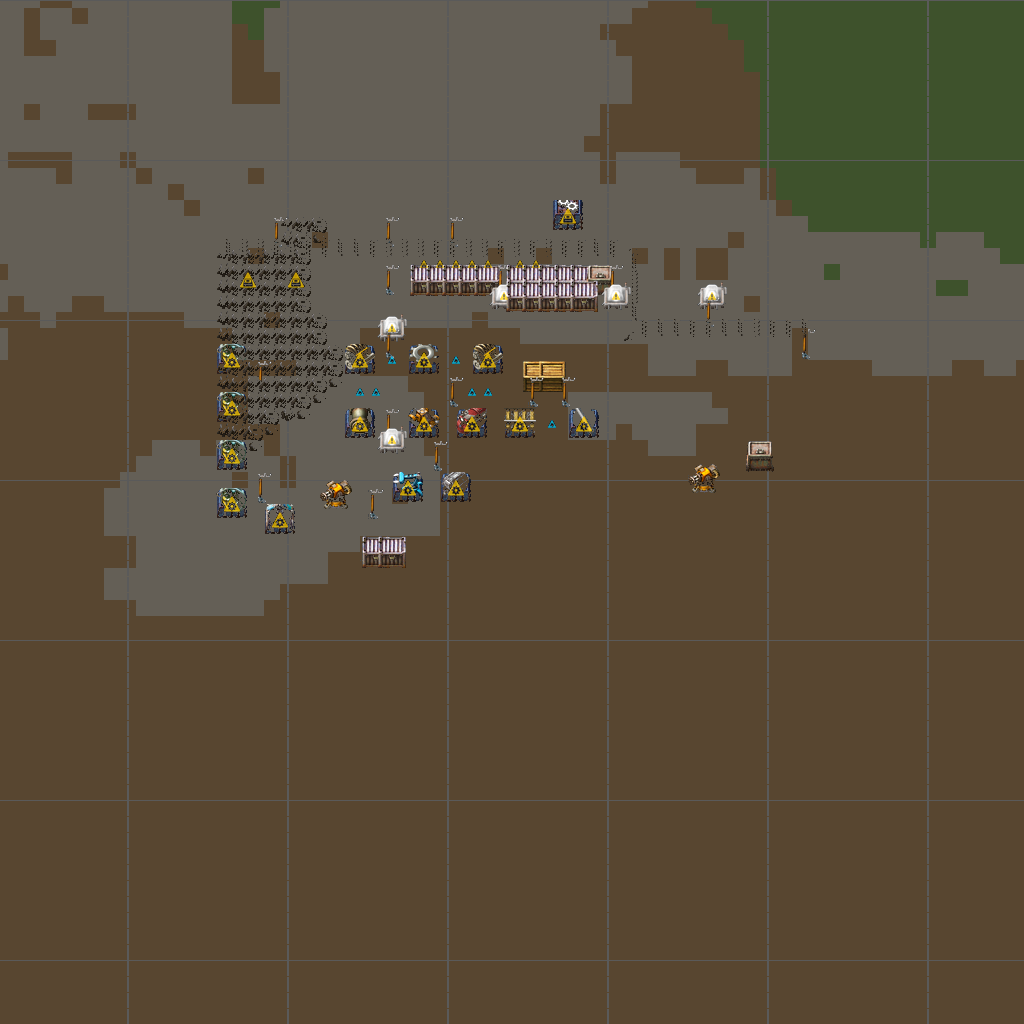
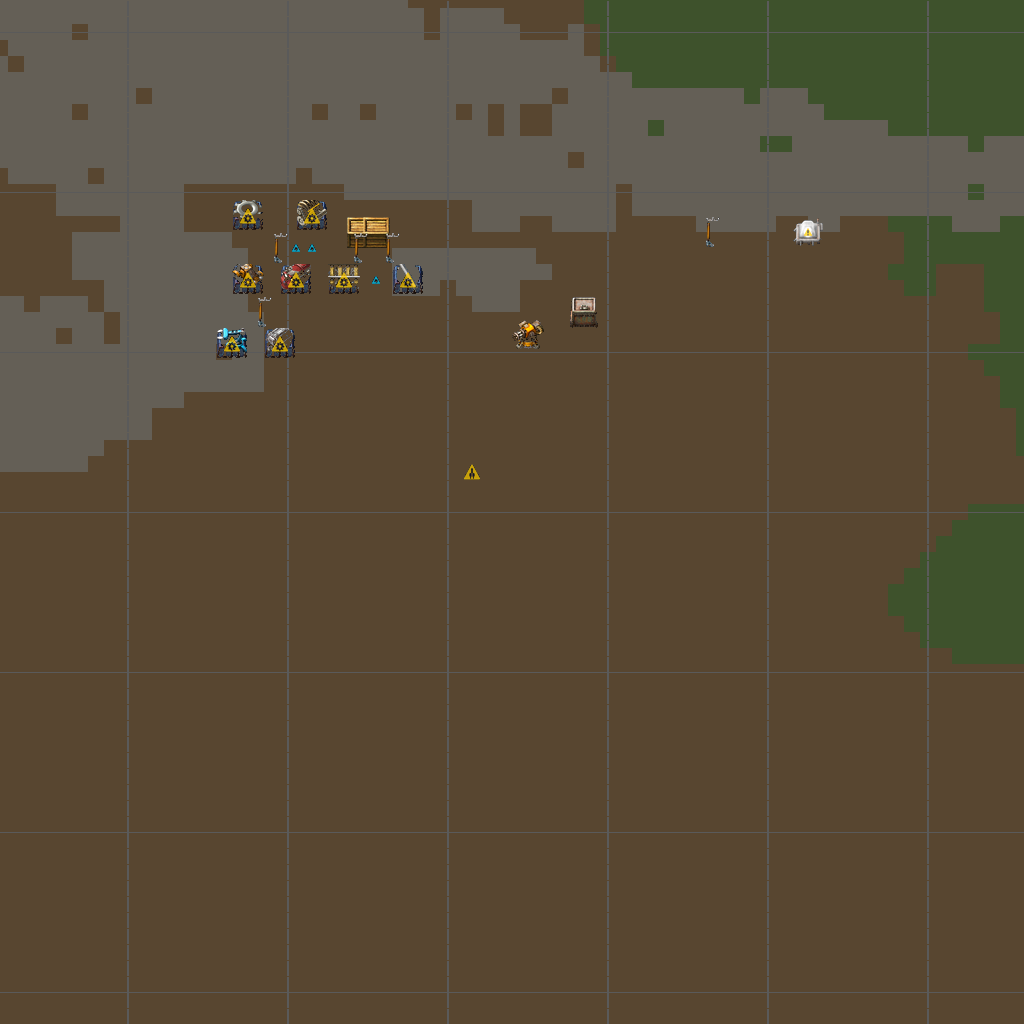
Landing: map is the hero wallpaper, pinned hero with sheet sliding over, sticky section headings
Claude-Session: https://claude.ai/code/session_01NEpUbo3oruyF74nJh2ApNj

Changed region(s): [[0.0, 0.0, 1.0, 0.625], [0.8438, 0.4688, 1.0, 0.6562], [0.2188, 0.0, 0.375, 0.125]]

diff --git a/web/index.html b/web/index.html
@@ -24,36 +24,35 @@
   h1, h2, h3 { text-wrap: balance; }
   code { font-family: var(--font-code, ui-monospace, "SF Mono", Menlo, monospace); font-size: .9em; background: var(--color-code-bg, #ebe4d3); padding: .1em .35em; border-radius: 4px; }
   .sheet-rule { display: flex; align-items: center; gap: 16px; padding: 14px 20px 0; font-size: 13px; letter-spacing: .08em; font-variant: var(--caption, small-caps); font-weight: 500; color: var(--text2, rgba(31,27,22,.6)); }
-  .sheet-rule::before { content: ""; order: 1; flex: 1; height: 1px; background: var(--border, #dcd2bd); }
+  .sheet-rule { position: absolute; top: 0; left: 0; right: 0; z-index: 5; color: rgba(255,255,255,.8); text-shadow: 0 1px 8px rgba(0,0,0,.5); }
+  .sheet-rule::before { content: ""; order: 1; flex: 1; height: 1px; background: rgba(255,255,255,.3); }
   .sheet-rule > :first-child { order: 0; } .sheet-rule > :last-child { order: 2; }
   .sheet-rule a { text-decoration: none; display: inline-block; padding: 12px 6px; margin: -12px -6px; } .sheet-rule a:hover { text-decoration: underline; }
-  .hero { text-align: center; padding: 88px 20px 48px; display: flex; flex-direction: column; align-items: center; }
-  .mark { width: 92px; height: 92px; border-radius: 22px; }
-  .hero h1 { font-size: clamp(2.6rem, 8vw, 5rem); line-height: 1.02; letter-spacing: -.035em; font-weight: 700; margin-top: 18px; }
-  .eyebrow { margin-top: 14px; font-size: 14px; font-variant: var(--caption, small-caps); letter-spacing: .08em; font-weight: 600; }
-  .lede { font-size: 1.2rem; color: var(--text2, rgba(31,27,22,.6)); max-width: 30ch; margin: 18px auto 0; }
+  /* hero: the map is the wallpaper, pinned; the page slides over it */
+  .hero { position: sticky; top: 0; z-index: 0; min-height: 100vh; min-height: 100svh; display: flex; flex-direction: column; align-items: center; justify-content: center; text-align: center; padding: 72px 20px 56px; color: #fff;
+          background: radial-gradient(ellipse 70% 55% at 50% 40%, rgba(16,12,8,.68), rgba(16,12,8,.28) 70%, rgba(16,12,8,.1)), linear-gradient(180deg, rgba(16,12,8,.35), rgba(16,12,8,.15) 60%, rgba(16,12,8,.55)), url(base.png) 40% 22% / cover no-repeat #3a2f23; }
+  .hero > * { position: relative; }
+  .mark { width: 92px; height: 92px; border-radius: 22px; box-shadow: 0 8px 30px rgba(0,0,0,.4); }
+  .hero h1 { font-size: clamp(2.6rem, 8vw, 5rem); line-height: 1.02; letter-spacing: -.035em; font-weight: 700; margin-top: 18px; text-shadow: 0 2px 24px rgba(0,0,0,.45); }
+  .eyebrow { margin-top: 14px; font-size: 14px; font-variant: var(--caption, small-caps); letter-spacing: .08em; font-weight: 600; opacity: .92; }
+  .lede { font-size: 1.2rem; color: rgba(255,255,255,.82); max-width: 30ch; margin: 18px auto 0; text-shadow: 0 1px 14px rgba(0,0,0,.5); }
   .cta { margin-top: 28px; display: flex; gap: 12px; flex-wrap: wrap; justify-content: center; }
-  .btn { display: inline-block; padding: 10px 18px; border-radius: var(--radius-pill, 999px); border: 1px solid var(--text, #1f1b16); text-decoration: none; font-size: .95rem; font-weight: 500; }
-  .btn.solid { background: var(--text, #1f1b16); color: var(--bg, #f5f0e4); } .btn:hover { opacity: .85; }
-  .stage { max-width: 1040px; margin: 0 auto; padding: 0 16px; }
-  .win { border: 1px solid var(--border2, #ebe4d3); border-radius: var(--radius-lg, 18px); background: var(--bg2, #ebe4d3); overflow: hidden; box-shadow: var(--shadow-lg, 0 12px 36px rgba(60,40,20,.12)); }
-  .bar { display: flex; align-items: center; gap: 6px; padding: 10px 14px; border-bottom: 1px solid var(--border, #dcd2bd); font-size: .8rem; color: var(--text2, rgba(31,27,22,.6)); }
-  .bar i { width: 11px; height: 11px; border-radius: 50%; background: var(--border, #dcd2bd); } .bar span { margin-left: 10px; }
-  .panes { display: grid; grid-template-columns: minmax(0, 1.25fr) minmax(0, 1fr); }
-  .map img { display: block; width: 100%; height: 100%; object-fit: cover; object-position: 50% 12%; aspect-ratio: 1.15; }
-  .live { padding: 22px 22px 24px; border-left: 1px solid var(--border, #dcd2bd); display: flex; flex-direction: column; gap: 6px; }
-  .live small { font-size: .8rem; font-variant: var(--caption, small-caps); letter-spacing: .06em; color: var(--text2, rgba(31,27,22,.6)); font-weight: 600; }
-  .live b.big { font-size: 1.5rem; letter-spacing: -.02em; line-height: 1.15; }
-  .meter { height: 8px; border-radius: 99px; background: var(--border, #dcd2bd); overflow: hidden; margin: 6px 0 2px; }
-  .meter i { display: block; height: 100%; width: 0%; background: var(--accent, #b3461f); border-radius: 99px; }
-  .live p { font-size: .9rem; color: var(--text2, rgba(31,27,22,.6)); }
-  .live ol { margin: 4px 0 0 1.1rem; font-size: .9rem; } .live li { margin-top: 4px; } .live li span { color: var(--text2, rgba(31,27,22,.6)); }
-  .plate-cap { margin: 14px 0 0; text-align: center; font-size: 13px; letter-spacing: .08em; font-variant: var(--caption, small-caps); font-weight: 500; color: var(--text2, rgba(31,27,22,.6)); }
+  .btn { display: inline-block; padding: 10px 18px; border-radius: var(--radius-pill, 999px); border: 1px solid rgba(255,255,255,.55); color: #fff; text-decoration: none; font-size: .95rem; font-weight: 500; }
+  .btn.solid { background: #fff; color: #1f1b16; border-color: #fff; } .btn:hover { opacity: .85; }
+  .glass { margin-top: 40px; width: min(440px, 100%); text-align: left; padding: 18px 20px 20px; border-radius: 18px; background: rgba(245,240,228,.13); border: 1px solid rgba(255,255,255,.22); backdrop-filter: blur(16px) saturate(1.2); -webkit-backdrop-filter: blur(16px) saturate(1.2); }
+  .glass small { font-size: .78rem; font-variant: var(--caption, small-caps); letter-spacing: .08em; font-weight: 600; opacity: .8; }
+  .glass b.big { display: block; font-size: 1.4rem; letter-spacing: -.02em; line-height: 1.2; margin-top: 2px; }
+  .meter { height: 7px; border-radius: 99px; background: rgba(255,255,255,.22); overflow: hidden; margin: 10px 0 6px; }
+  .meter i { display: block; height: 100%; width: 0%; background: var(--bulb, #ffca30); border-radius: 99px; }
+  .glass p { font-size: .88rem; color: rgba(255,255,255,.78); }
+  .glass ol { margin: 8px 0 0 1.1rem; font-size: .88rem; color: rgba(255,255,255,.9); } .glass li { margin-top: 3px; }
+  .plate-cap { margin: 18px 0 0; font-size: 12px; letter-spacing: .08em; font-variant: var(--caption, small-caps); font-weight: 500; color: rgba(255,255,255,.62); }
+  .sheet { position: relative; z-index: 1; background: var(--bg, #f5f0e4); border-radius: 28px 28px 0 0; box-shadow: 0 -18px 50px rgba(0,0,0,.28); padding-top: 8px; }
   .wrap { max-width: 640px; margin: 0 auto; padding: 0 20px; }
   .facts { display: grid; grid-template-columns: repeat(4, 1fr); gap: 12px; max-width: 760px; margin: 72px auto 0; padding: 0 20px; }
   .fact { border: 1px solid var(--border, #dcd2bd); border-radius: var(--radius, 12px); padding: 16px 14px; background: var(--bg2, #ebe4d3); text-align: center; }
   .fact b { display: block; font-size: 1.6rem; letter-spacing: -.03em; line-height: 1.1; } .fact span { font-size: .8rem; color: var(--text2, rgba(31,27,22,.6)); }
-  section.copy { padding-top: 72px; } section.copy h2 { font-size: 1.7rem; letter-spacing: -.025em; margin-bottom: 14px; }
+  section.copy { padding-top: 56px; } section.copy h2 { position: sticky; top: 0; z-index: 3; background: var(--bg, #f5f0e4); padding: 14px 0 10px; font-size: 1.7rem; letter-spacing: -.025em; margin-bottom: 8px; }
   .steps { display: grid; grid-template-columns: repeat(4, 1fr); gap: 12px; margin-top: 8px; }
   .step { border-top: 2px solid var(--accent, #b3461f); padding-top: 10px; } .step b { display: block; font-size: .95rem; } .step span { font-size: .85rem; color: var(--text2, rgba(31,27,22,.6)); }
   .cols { display: grid; grid-template-columns: 1fr 1fr; gap: 12px; margin-top: 8px; }
@@ -71,42 +70,33 @@
   .js .reveal { opacity: 0; transform: translateY(14px); transition: opacity .6s ease, transform .6s ease; } .js .reveal.in { opacity: 1; transform: none; }
   @media (max-width: 720px) {
     .hero { padding: 48px 16px 32px; } .hero h1 { font-size: clamp(2.4rem, 12vw, 3.2rem); } .lede { font-size: 1.05rem; } .mark { width: 72px; height: 72px; }
-    .btn { padding: 13px 20px; min-height: 44px; } .stage { padding: 0 12px; } .wrap { padding: 0 16px; }
-    .panes { grid-template-columns: minmax(0, 1fr); } .live { border-left: 0; border-top: 1px solid var(--border, #dcd2bd); }
+    .btn { padding: 13px 20px; min-height: 44px; } .hero { background-position: 30% 22%; } .wrap { padding: 0 16px; }
     .facts, .steps { grid-template-columns: repeat(2, minmax(0, 1fr)); } .cols { grid-template-columns: minmax(0, 1fr); } .foot-dir { grid-template-columns: repeat(2, 1fr); }
   }
-  @media (prefers-reduced-motion: reduce) { .js .reveal { opacity: 1; transform: none; transition: none; } }
+  @media (prefers-reduced-motion: reduce) { .hero { position: relative; } .js .reveal { opacity: 1; transform: none; transition: none; } }
 </style>
 </head>
 <body id="top">
 <div class="sheet-rule" aria-hidden="true"><span>Conveyer</span><span><a href="https://github.com/nulljosh/conveyer" tabindex="-1">GitHub</a></span></div>
-<main>
 <header class="hero">
   <img class="mark" src="icon.svg" alt="">
   <h1>Introducing<br>Conveyer.</h1>
   <p class="eyebrow">An LLM plays Factorio.</p>
   <p class="lede">On a real save. It reads the game, picks one move, and repeats.</p>
   <div class="cta"><a class="btn solid" href="https://github.com/nulljosh/conveyer">View on GitHub</a><a class="btn" href="#run">Run it</a></div>
+  <div class="glass">
+    <small>Researching now</small>
+    <b class="big">Advanced oil processing</b>
+    <div class="meter" role="img" aria-label="0 percent"><i></i></div>
+    <p>0% &middot; Labs idle, waiting for science packs</p>
+    <small style="display:block;margin-top:12px">Next</small>
+    <ol><li>Automated green science</li><li>Oil chain running</li><li>Advanced oil processing researched</li></ol>
+  </div>
+  <p class="plate-cap">The wallpaper is the real base, drawn from game state, 2 Oct 2026</p>
 </header>
 
-<div class="stage">
-  <div class="win">
-    <div class="bar"><i></i><i></i><i></i><span>The base, live from the game</span></div>
-    <div class="panes">
-      <div class="map"><img src="base.png" width="1024" height="1024" alt="Top-down map of the real Factorio base, drawn from game state"></div>
-      <div class="live">
-        <small>Researching</small>
-        <b class="big">Advanced oil processing</b>
-        <div class="meter" role="img" aria-label="0 percent"><i></i></div>
-        <p>0% &middot; Labs idle, waiting for science packs</p>
-        <small style="margin-top:14px">Next</small>
-        <ol><li>Automated green science</li><li>Oil chain running</li><li>Advanced oil processing researched</li></ol>
-      </div>
-    </div>
-  </div>
-  <p class="plate-cap">Drawn from game state, 2 Oct 2026</p>
-</div>
-
+<div class="sheet">
+<main>
 <div class="facts reveal">
   <div class="fact"><b>43</b><span>techs researched</span></div>
   <div class="fact"><b>2,320</b><span>things on the base</span></div>
@@ -167,6 +157,7 @@ python3 runner.py --env-id open_play
   </nav>
   <div class="foot-bar">Conveyer &middot; MIT License &middot; &copy; 2026 Joshua Trommel &middot; Unaffiliated with Wube Software</div>
 </footer>
+</div>
 <script>
 (function () {
   var els = document.querySelectorAll(".reveal");

diff --git a/scripts/landing_sync.py b/scripts/landing_sync.py
@@ -70,36 +70,35 @@ PAGE = """<!doctype html>
   h1, h2, h3 { text-wrap: balance; }
   code { font-family: var(--font-code, ui-monospace, "SF Mono", Menlo, monospace); font-size: .9em; background: var(--color-code-bg, #ebe4d3); padding: .1em .35em; border-radius: 4px; }
   .sheet-rule { display: flex; align-items: center; gap: 16px; padding: 14px 20px 0; font-size: 13px; letter-spacing: .08em; font-variant: var(--caption, small-caps); font-weight: 500; color: var(--text2, rgba(31,27,22,.6)); }
-  .sheet-rule::before { content: ""; order: 1; flex: 1; height: 1px; background: var(--border, #dcd2bd); }
+  .sheet-rule { position: absolute; top: 0; left: 0; right: 0; z-index: 5; color: rgba(255,255,255,.8); text-shadow: 0 1px 8px rgba(0,0,0,.5); }
+  .sheet-rule::before { content: ""; order: 1; flex: 1; height: 1px; background: rgba(255,255,255,.3); }
   .sheet-rule > :first-child { order: 0; } .sheet-rule > :last-child { order: 2; }
   .sheet-rule a { text-decoration: none; display: inline-block; padding: 12px 6px; margin: -12px -6px; } .sheet-rule a:hover { text-decoration: underline; }
-  .hero { text-align: center; padding: 88px 20px 48px; display: flex; flex-direction: column; align-items: center; }
-  .mark { width: 92px; height: 92px; border-radius: 22px; }
-  .hero h1 { font-size: clamp(2.6rem, 8vw, 5rem); line-height: 1.02; letter-spacing: -.035em; font-weight: 700; margin-top: 18px; }
-  .eyebrow { margin-top: 14px; font-size: 14px; font-variant: var(--caption, small-caps); letter-spacing: .08em; font-weight: 600; }
-  .lede { font-size: 1.2rem; color: var(--text2, rgba(31,27,22,.6)); max-width: 30ch; margin: 18px auto 0; }
+  /* hero: the map is the wallpaper, pinned; the page slides over it */
+  .hero { position: sticky; top: 0; z-index: 0; min-height: 100vh; min-height: 100svh; display: flex; flex-direction: column; align-items: center; justify-content: center; text-align: center; padding: 72px 20px 56px; color: #fff;
+          background: radial-gradient(ellipse 70% 55% at 50% 40%, rgba(16,12,8,.68), rgba(16,12,8,.28) 70%, rgba(16,12,8,.1)), linear-gradient(180deg, rgba(16,12,8,.35), rgba(16,12,8,.15) 60%, rgba(16,12,8,.55)), url(base.png) 40% 22% / cover no-repeat #3a2f23; }
+  .hero > * { position: relative; }
+  .mark { width: 92px; height: 92px; border-radius: 22px; box-shadow: 0 8px 30px rgba(0,0,0,.4); }
+  .hero h1 { font-size: clamp(2.6rem, 8vw, 5rem); line-height: 1.02; letter-spacing: -.035em; font-weight: 700; margin-top: 18px; text-shadow: 0 2px 24px rgba(0,0,0,.45); }
+  .eyebrow { margin-top: 14px; font-size: 14px; font-variant: var(--caption, small-caps); letter-spacing: .08em; font-weight: 600; opacity: .92; }
+  .lede { font-size: 1.2rem; color: rgba(255,255,255,.82); max-width: 30ch; margin: 18px auto 0; text-shadow: 0 1px 14px rgba(0,0,0,.5); }
   .cta { margin-top: 28px; display: flex; gap: 12px; flex-wrap: wrap; justify-content: center; }
-  .btn { display: inline-block; padding: 10px 18px; border-radius: var(--radius-pill, 999px); border: 1px solid var(--text, #1f1b16); text-decoration: none; font-size: .95rem; font-weight: 500; }
-  .btn.solid { background: var(--text, #1f1b16); color: var(--bg, #f5f0e4); } .btn:hover { opacity: .85; }
-  .stage { max-width: 1040px; margin: 0 auto; padding: 0 16px; }
-  .win { border: 1px solid var(--border2, #ebe4d3); border-radius: var(--radius-lg, 18px); background: var(--bg2, #ebe4d3); overflow: hidden; box-shadow: var(--shadow-lg, 0 12px 36px rgba(60,40,20,.12)); }
-  .bar { display: flex; align-items: center; gap: 6px; padding: 10px 14px; border-bottom: 1px solid var(--border, #dcd2bd); font-size: .8rem; color: var(--text2, rgba(31,27,22,.6)); }
-  .bar i { width: 11px; height: 11px; border-radius: 50%; background: var(--border, #dcd2bd); } .bar span { margin-left: 10px; }
-  .panes { display: grid; grid-template-columns: minmax(0, 1.25fr) minmax(0, 1fr); }
-  .map img { display: block; width: 100%; height: 100%; object-fit: cover; object-position: 50% 12%; aspect-ratio: 1.15; }
-  .live { padding: 22px 22px 24px; border-left: 1px solid var(--border, #dcd2bd); display: flex; flex-direction: column; gap: 6px; }
-  .live small { font-size: .8rem; font-variant: var(--caption, small-caps); letter-spacing: .06em; color: var(--text2, rgba(31,27,22,.6)); font-weight: 600; }
-  .live b.big { font-size: 1.5rem; letter-spacing: -.02em; line-height: 1.15; }
-  .meter { height: 8px; border-radius: 99px; background: var(--border, #dcd2bd); overflow: hidden; margin: 6px 0 2px; }
-  .meter i { display: block; height: 100%; width: __PCT__%; background: var(--accent, #b3461f); border-radius: 99px; }
-  .live p { font-size: .9rem; color: var(--text2, rgba(31,27,22,.6)); }
-  .live ol { margin: 4px 0 0 1.1rem; font-size: .9rem; } .live li { margin-top: 4px; } .live li span { color: var(--text2, rgba(31,27,22,.6)); }
-  .plate-cap { margin: 14px 0 0; text-align: center; font-size: 13px; letter-spacing: .08em; font-variant: var(--caption, small-caps); font-weight: 500; color: var(--text2, rgba(31,27,22,.6)); }
+  .btn { display: inline-block; padding: 10px 18px; border-radius: var(--radius-pill, 999px); border: 1px solid rgba(255,255,255,.55); color: #fff; text-decoration: none; font-size: .95rem; font-weight: 500; }
+  .btn.solid { background: #fff; color: #1f1b16; border-color: #fff; } .btn:hover { opacity: .85; }
+  .glass { margin-top: 40px; width: min(440px, 100%); text-align: left; padding: 18px 20px 20px; border-radius: 18px; background: rgba(245,240,228,.13); border: 1px solid rgba(255,255,255,.22); backdrop-filter: blur(16px) saturate(1.2); -webkit-backdrop-filter: blur(16px) saturate(1.2); }
+  .glass small { font-size: .78rem; font-variant: var(--caption, small-caps); letter-spacing: .08em; font-weight: 600; opacity: .8; }
+  .glass b.big { display: block; font-size: 1.4rem; letter-spacing: -.02em; line-height: 1.2; margin-top: 2px; }
+  .meter { height: 7px; border-radius: 99px; background: rgba(255,255,255,.22); overflow: hidden; margin: 10px 0 6px; }
+  .meter i { display: block; height: 100%; width: __PCT__%; background: var(--bulb, #ffca30); border-radius: 99px; }
+  .glass p { font-size: .88rem; color: rgba(255,255,255,.78); }
+  .glass ol { margin: 8px 0 0 1.1rem; font-size: .88rem; color: rgba(255,255,255,.9); } .glass li { margin-top: 3px; }
+  .plate-cap { margin: 18px 0 0; font-size: 12px; letter-spacing: .08em; font-variant: var(--caption, small-caps); font-weight: 500; color: rgba(255,255,255,.62); }
+  .sheet { position: relative; z-index: 1; background: var(--bg, #f5f0e4); border-radius: 28px 28px 0 0; box-shadow: 0 -18px 50px rgba(0,0,0,.28); padding-top: 8px; }
   .wrap { max-width: 640px; margin: 0 auto; padding: 0 20px; }
   .facts { display: grid; grid-template-columns: repeat(4, 1fr); gap: 12px; max-width: 760px; margin: 72px auto 0; padding: 0 20px; }
   .fact { border: 1px solid var(--border, #dcd2bd); border-radius: var(--radius, 12px); padding: 16px 14px; background: var(--bg2, #ebe4d3); text-align: center; }
   .fact b { display: block; font-size: 1.6rem; letter-spacing: -.03em; line-height: 1.1; } .fact span { font-size: .8rem; color: var(--text2, rgba(31,27,22,.6)); }
-  section.copy { padding-top: 72px; } section.copy h2 { font-size: 1.7rem; letter-spacing: -.025em; margin-bottom: 14px; }
+  section.copy { padding-top: 56px; } section.copy h2 { position: sticky; top: 0; z-index: 3; background: var(--bg, #f5f0e4); padding: 14px 0 10px; font-size: 1.7rem; letter-spacing: -.025em; margin-bottom: 8px; }
   .steps { display: grid; grid-template-columns: repeat(4, 1fr); gap: 12px; margin-top: 8px; }
   .step { border-top: 2px solid var(--accent, #b3461f); padding-top: 10px; } .step b { display: block; font-size: .95rem; } .step span { font-size: .85rem; color: var(--text2, rgba(31,27,22,.6)); }
   .cols { display: grid; grid-template-columns: 1fr 1fr; gap: 12px; margin-top: 8px; }
@@ -117,42 +116,33 @@ PAGE = """<!doctype html>
   .js .reveal { opacity: 0; transform: translateY(14px); transition: opacity .6s ease, transform .6s ease; } .js .reveal.in { opacity: 1; transform: none; }
   @media (max-width: 720px) {
     .hero { padding: 48px 16px 32px; } .hero h1 { font-size: clamp(2.4rem, 12vw, 3.2rem); } .lede { font-size: 1.05rem; } .mark { width: 72px; height: 72px; }
-    .btn { padding: 13px 20px; min-height: 44px; } .stage { padding: 0 12px; } .wrap { padding: 0 16px; }
-    .panes { grid-template-columns: minmax(0, 1fr); } .live { border-left: 0; border-top: 1px solid var(--border, #dcd2bd); }
+    .btn { padding: 13px 20px; min-height: 44px; } .hero { background-position: 30% 22%; } .wrap { padding: 0 16px; }
     .facts, .steps { grid-template-columns: repeat(2, minmax(0, 1fr)); } .cols { grid-template-columns: minmax(0, 1fr); } .foot-dir { grid-template-columns: repeat(2, 1fr); }
   }
-  @media (prefers-reduced-motion: reduce) { .js .reveal { opacity: 1; transform: none; transition: none; } }
+  @media (prefers-reduced-motion: reduce) { .hero { position: relative; } .js .reveal { opacity: 1; transform: none; transition: none; } }
 </style>
 </head>
 <body id="top">
 <div class="sheet-rule" aria-hidden="true"><span>Conveyer</span><span><a href="https://github.com/nulljosh/conveyer" tabindex="-1">GitHub</a></span></div>
-<main>
 <header class="hero">
   <img class="mark" src="icon.svg" alt="">
   <h1>Introducing<br>Conveyer.</h1>
   <p class="eyebrow">An LLM plays Factorio.</p>
   <p class="lede">On a real save. It reads the game, picks one move, and repeats.</p>
   <div class="cta"><a class="btn solid" href="https://github.com/nulljosh/conveyer">View on GitHub</a><a class="btn" href="#run">Run it</a></div>
+  <div class="glass">
+    <small>Researching now</small>
+    <b class="big">__CUR__</b>
+    <div class="meter" role="img" aria-label="__PCT__ percent"><i></i></div>
+    <p>__PCT__%__THEN__ &middot; __LABS__</p>
+    <small style="display:block;margin-top:12px">Next</small>
+    <ol>__NEXT3__</ol>
+  </div>
+  <p class="plate-cap">The wallpaper is the real base, drawn from game state, __TODAY__</p>
 </header>
 
-<div class="stage">
-  <div class="win">
-    <div class="bar"><i></i><i></i><i></i><span>The base, live from the game</span></div>
-    <div class="panes">
-      <div class="map"><img src="base.png" width="1024" height="1024" alt="Top-down map of the real Factorio base, drawn from game state"></div>
-      <div class="live">
-        <small>Researching</small>
-        <b class="big">__CUR__</b>
-        <div class="meter" role="img" aria-label="__PCT__ percent"><i></i></div>
-        <p>__PCT__%__THEN__ &middot; __LABS__</p>
-        <small style="margin-top:14px">Next</small>
-        <ol>__NEXT3__</ol>
-      </div>
-    </div>
-  </div>
-  <p class="plate-cap">Drawn from game state, __TODAY__</p>
-</div>
-
+<div class="sheet">
+<main>
 <div class="facts reveal">
   <div class="fact"><b>__TECHS__</b><span>techs researched</span></div>
   <div class="fact"><b>__ENT__</b><span>things on the base</span></div>
@@ -205,6 +195,7 @@ python3 runner.py --env-id open_play
   </nav>
   <div class="foot-bar">Conveyer &middot; MIT License &middot; &copy; 2026 Joshua Trommel &middot; Unaffiliated with Wube Software</div>
 </footer>
+</div>
 <script>
 (function () {
   var els = document.querySelectorAll(".reveal");
